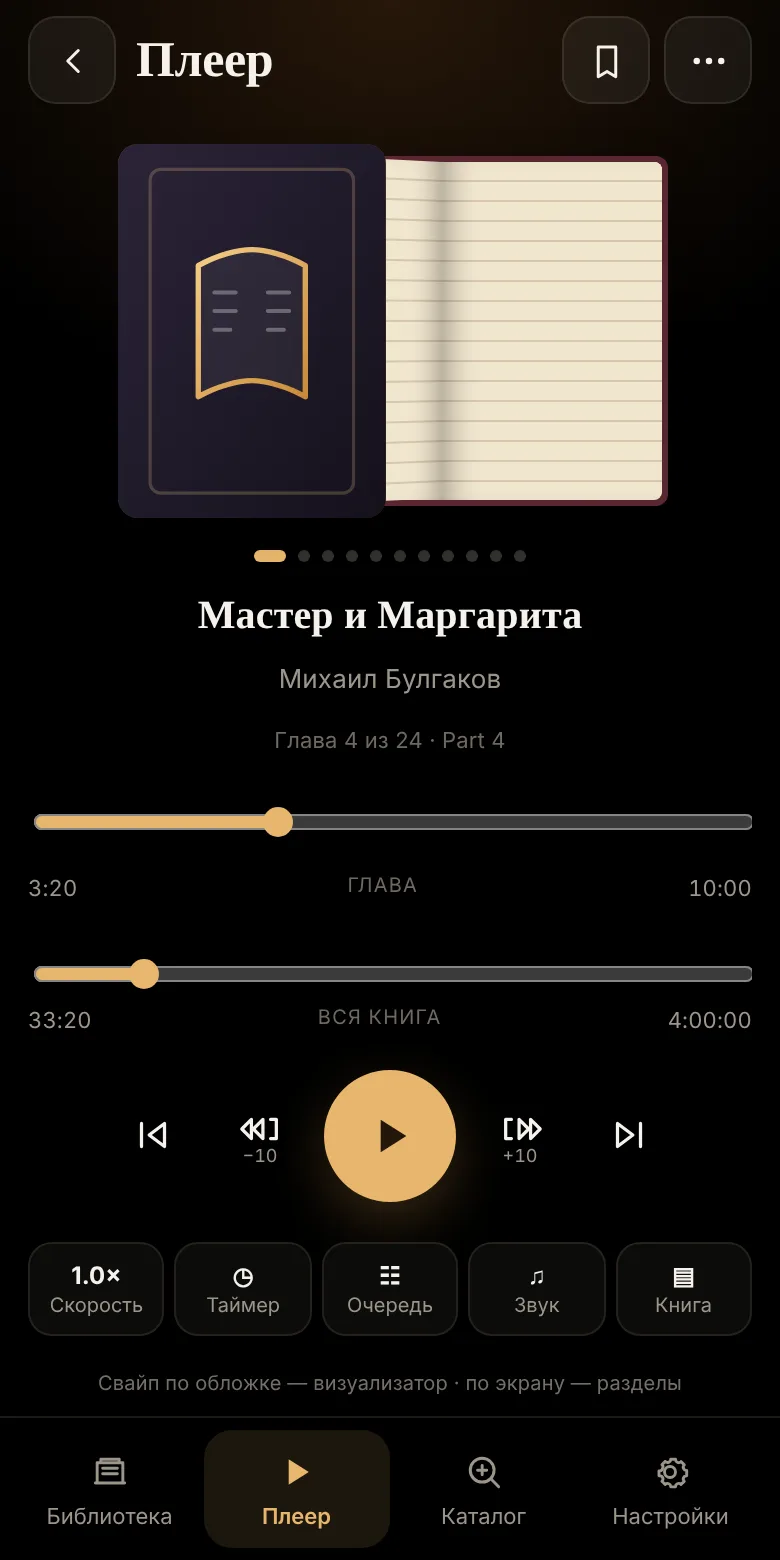
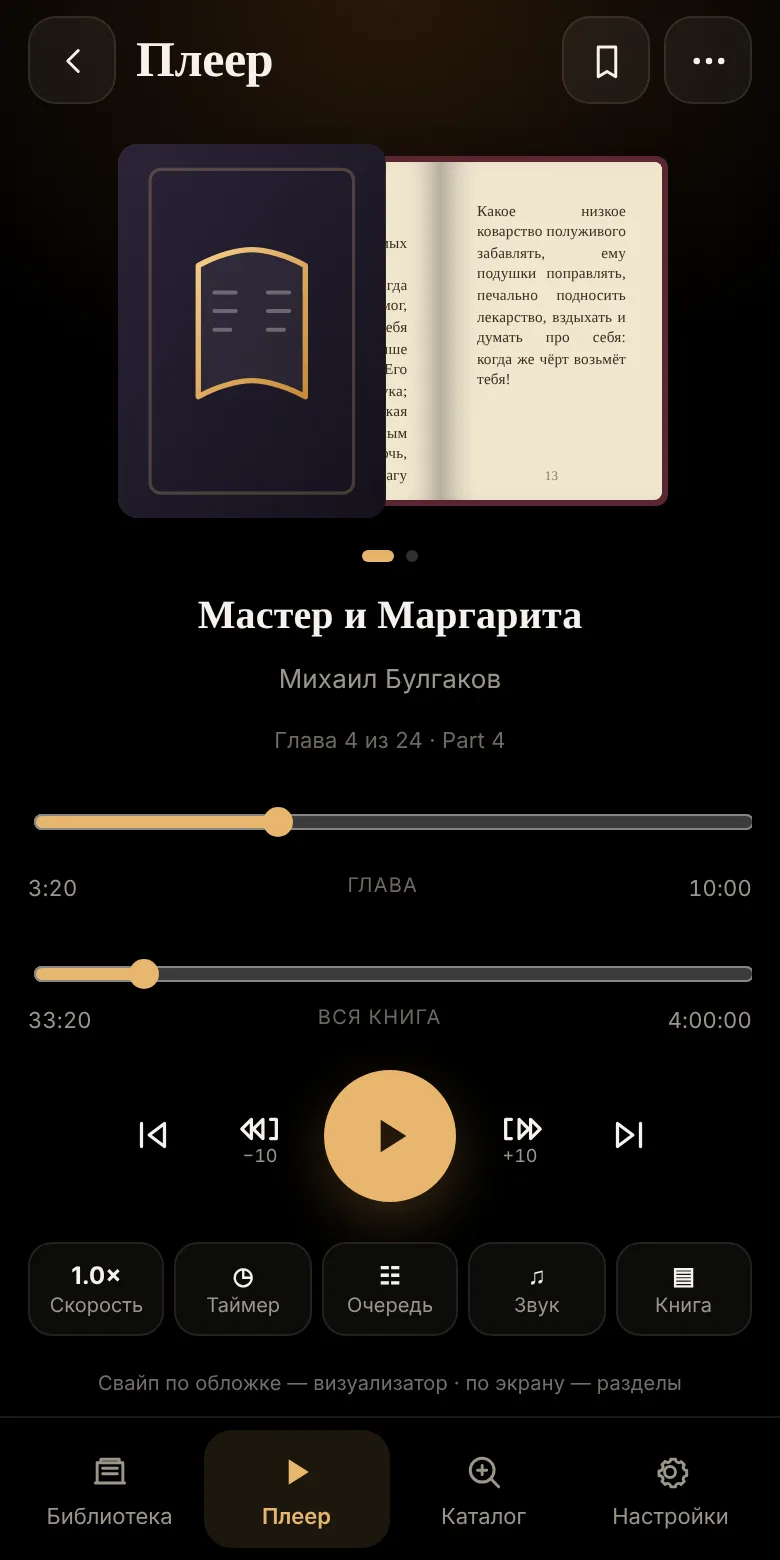
2.8.4

diff --git a/www/css/player.css b/www/css/player.css
@@ -224,6 +224,8 @@
 /* Dots under the cover / on the visual: where you are in the picture loop (cover, visual 1, 2, 3) */
 .pic-dots { display: flex; justify-content: center; gap: 6px; min-height: 6px; margin: -2px 0 6px; }
 .pic-dots i { width: 6px; height: 6px; border-radius: 50%; background: var(--muted-soft); opacity: .45; transition: width .18s, opacity .18s, background .18s; }
+.pic-num { font: 600 12px/1 inherit; color: var(--muted); margin-left: 4px; align-self: center; letter-spacing: .04em; }
+.pic-dots-viz .pic-num { color: #fff; opacity: .85; }
 .pic-dots i.on { width: 16px; border-radius: 4px; background: var(--gold2); opacity: 1; }
 .pic-dots-viz { position: absolute; left: 0; right: 0; bottom: calc(14px + env(safe-area-inset-bottom)); margin: 0; z-index: 2; pointer-events: none; }
 .pic-dots-viz i { background: #fff; }
@@ -308,13 +310,17 @@
 /* a book: the cover stays on the left, an open book lies beside it and its leaves turn over, the same way the record sits beside an album */
 .player-cover.is-book { height: min(clamp(96px, 24vh, 210px), 48vw); height: min(clamp(96px, 24dvh, 210px), 48vw); aspect-ratio: 1.45; max-width: none; }
 .is-book .cover-frame { right: auto; width: 49.3%; border-radius: 10px; }
-.fx-book { position: absolute; right: 0; top: 5%; height: 90%; aspect-ratio: 1.3; z-index: 1; perspective: 900px; }
+.fx-book { position: absolute; right: 0; top: 5%; height: 90%; aspect-ratio: 1.3; z-index: 1; perspective: 900px; container-type: size; }
 .fx-book::before { content: ""; position: absolute; inset: -3px; border-radius: 6px; background: #5a2630; box-shadow: 0 6px 18px rgba(0,0,0,.45); }
-.fx-book .pg, .fx-book .lf { position: absolute; top: 0; width: 50%; height: 100%;
-  background: repeating-linear-gradient(180deg, transparent 0 9px, rgba(120,90,50,.22) 9px 10px), #f1e6cf; }
+.fx-book .pg, .fx-book .lf { position: absolute; top: 0; width: 50%; height: 100%; overflow: hidden; background: #f1e6cf; color: #3a2f20;
+  font: 3.5cqw/1.38 Georgia, "Times New Roman", serif; text-align: justify; hyphens: auto; padding: 9% 8% 12%; box-sizing: border-box; }
+.fx-book .pg p, .fx-book .lf p { margin: 0; }
+.fx-book h6 { margin: 0 0 6% ; font: italic 600 4.6cqw/1.1 Georgia, serif; text-align: center; letter-spacing: .02em; }
+.fx-book .pg-l p::first-letter { float: left; font: 700 11cqw/.85 Georgia, serif; padding: 1% 2% 0 0; color: #6a2a2a; }
+.fx-book .pg::after, .fx-book .lf::after { content: attr(data-n); position: absolute; left: 0; right: 0; bottom: 4%; text-align: center; font-size: 3cqw; opacity: .6; }
 .fx-book .pg-l { left: 0; border-radius: 4px 0 0 4px; box-shadow: inset -14px 0 14px -10px rgba(0,0,0,.35); }
 .fx-book .pg-r { right: 0; border-radius: 0 4px 4px 0; box-shadow: inset 14px 0 14px -10px rgba(0,0,0,.35); }
-.fx-book .lf { right: 0; border-radius: 0 4px 4px 0; transform-origin: 0 50%; box-shadow: inset 14px 0 14px -10px rgba(0,0,0,.3); animation: leaf-turn 9s ease-in-out infinite; animation-play-state: paused; }
+.fx-book .lf { right: 0; border-radius: 0 4px 4px 0; transform-origin: 0 50%; backface-visibility: hidden; box-shadow: inset 14px 0 14px -10px rgba(0,0,0,.3); animation: leaf-turn 9s ease-in-out infinite; animation-play-state: paused; }
 .is-book.playing .fx-book .lf { animation-play-state: running; }
 .fx-book .lf:nth-child(4) { animation-delay: -3s; }
 .fx-book .lf:nth-child(5) { animation-delay: -6s; }

diff --git a/www/js/player.js b/www/js/player.js
@@ -11,7 +11,7 @@ import { openBookMenu } from './library.js';
 import { closeVisualizer, syncPictureDots } from './visualizer.js';
 import { hydrateBookMeta } from './meta.js';
 import { bindNativeEvents, stopNativePlayer } from './native-bridge.js';
-import { t } from './i18n.js';
+import { t, getLang } from './i18n.js';
 
 let progressSaveTimer = null;
 let lastSavedSecond = -1;
@@ -42,6 +42,13 @@ function syncPlaying(){
   return state.playing;
 }
 
+/** Page text of the little open book: the start of a public-domain novel in the language of the app */
+function bookText(){
+  return getLang() === 'en'
+    ? ['Chapter I', 'It is a truth universally acknowledged, that a single man in possession of a good fortune, must be in want of a wife. However little known the feelings or views of such a man may be on his first entering a neighbourhood, this truth is so well fixed in the minds of the surrounding families.', 'That he is considered the rightful property of some one or other of their daughters. “My dear Mr. Bennet,” said his lady to him one day, “have you heard that Netherfield Park is let at last?” Mr. Bennet replied that he had not.']
+    : ['Глава I', 'Мой дядя самых честных правил, когда не в шутку занемог, он уважать себя заставил и лучше выдумать не мог. Его пример другим наука; но, боже мой, какая скука с больным сидеть и день и ночь, не отходя ни шагу прочь!', 'Какое низкое коварство полуживого забавлять, ему подушки поправлять, печально подносить лекарство, вздыхать и думать про себя: когда же чёрт возьмёт тебя!'];
+}
+
 /** Animated layer behind the cover: an album gets a record with a tonearm, a book gets an open book beside it whose leaves turn over */
 function coverFx(b){
   if(isMusic(b)){
@@ -49,7 +56,9 @@ function coverFx(b){
       '<svg class="fx-arm" viewBox="0 0 140 100" aria-hidden="true"><g class="arm">' +
       '<circle cx="128" cy="10" r="6.5" class="arm-base"/><path d="M128 10 L108 24" class="arm-bar"/><rect x="102" y="21" width="9" height="5.5" rx="1.5" transform="rotate(35 106 24)" class="arm-head"/></g></svg>';
   }
-  return '<div class="fx-book" aria-hidden="true"><i class="pg pg-l"></i><i class="pg pg-r"></i><i class="lf"></i><i class="lf"></i><i class="lf"></i></div>';
+  const [ch, p1, p2] = bookText();
+  return `<div class="fx-book" aria-hidden="true"><div class="pg pg-l" data-n="12"><h6>${ch}</h6><p>${p1}</p></div><div class="pg pg-r" data-n="13"><p>${p2}</p></div>` +
+    `<div class="lf" data-n="13"><p>${p2}</p></div><div class="lf" data-n="13"><p>${p2}</p></div><div class="lf" data-n="13"><p>${p2}</p></div></div>`;
 }
 
 /** Seek within whole book (seconds from the very start of the book) */

diff --git a/www/js/visualizer.js b/www/js/visualizer.js
@@ -44,12 +44,10 @@ function setVisual(v){
 
 /** The little dots (one per picture) on the cover and on the visual: where you are in the loop */
 export function syncPictureDots(){
+  // two stops: the cover (with its animation beside it) and the visualizers; the counter says which of the ten is on
   const pos = picturePosition();
   document.querySelectorAll('.pic-dots').forEach(host => {
-    if(!host.children.length){
-      host.innerHTML = Array.from({length: VISUALS.length + 1}, () => '<i></i>').join('');
-    }
-    Array.from(host.children).forEach((d, i) => d.classList.toggle('on', i === pos));
+    host.innerHTML = `<i class="${pos === 0 ? 'on' : ''}"></i><i class="${pos > 0 ? 'on' : ''}"></i>${pos > 0 ? `<b class="pic-num">${pos}/${VISUALS.length}</b>` : ''}`;
   });
 }
 

diff --git a/README.md b/README.md
@@ -71,7 +71,7 @@
 
 ## Каталог, онлайн и скачанные книги (2.8.0, правки 2.8.1)
 
-2.8.1: поиск по-русски идёт по коду языка архива (`language:rus`, у LibriVox коды ISO 639-2); меню книги «Удалить…» предлагает «Убрать из библиотеки» и «Удалить с диска» (`ShelfFiles.deleteFile`, для скачанных книг `dropEmptyDir` убирает и пустую папку); у обложки книги рядом лежит раскрытая книга, листы переворачиваются (`.fx-book`). Каталог теперь с тремя источниками на archive.org (`SOURCES` в `catalog.js`): «Книги LibriVox», «Другие книги» (`audio_bookspoetry` без LibriVox) и «Музыка» (`netlabels`); вне LibriVox показываются только записи с открытой лицензией (public domain, CC0, CC BY, CC BY-SA, без NC и ND), проверка есть и в запросе, и в `loadItem`. Музыка попадает в библиотеку как альбом. Вкладки библиотеки: Все / Книги / Музыка / Онлайн; скачанные книги лежат в «Книги» или «Музыка» и помечены значком (`.dl-badge`), онлайн-записи только во «Все» и «Онлайн». 2.8.2: десять новых визуализаторов вместо трёх старых; режим библиотеки «Полка» (книги корешками на досках), кнопка ⋯ и долгое нажатие на книге открывают меню (удалить, скачать, источник); в каталоге добавлены украинские и сербские книги (коды `ukr`, `srp/hrv/bos`).
+2.8.1: поиск по-русски идёт по коду языка архива (`language:rus`, у LibriVox коды ISO 639-2); меню книги «Удалить…» предлагает «Убрать из библиотеки» и «Удалить с диска» (`ShelfFiles.deleteFile`, для скачанных книг `dropEmptyDir` убирает и пустую папку); у обложки книги рядом лежит раскрытая книга, листы переворачиваются (`.fx-book`). Каталог теперь с тремя источниками на archive.org (`SOURCES` в `catalog.js`): «Книги LibriVox», «Другие книги» (`audio_bookspoetry` без LibriVox) и «Музыка» (`netlabels`); вне LibriVox показываются только записи с открытой лицензией (public domain, CC0, CC BY, CC BY-SA, без NC и ND), проверка есть и в запросе, и в `loadItem`. Музыка попадает в библиотеку как альбом. Вкладки библиотеки: Все / Книги / Музыка / Онлайн; скачанные книги лежат в «Книги» или «Музыка» и помечены значком (`.dl-badge`), онлайн-записи только во «Все» и «Онлайн». 2.8.2: десять новых визуализаторов вместо трёх старых; режим библиотеки «Полка» (книги корешками на досках), кнопка ⋯ и долгое нажатие на книге открывают меню (удалить, скачать, источник); в каталоге добавлены украинские и сербские книги (коды `ukr`, `srp/hrv/bos`). 2.8.4: у обложки книги рядом лежит раскрытая книга с текстом (буквица, номера страниц, листы переворачиваются), счётчик «обложка / визуализатор 3/10» вместо одиннадцати точек.
 
 - **Каталог** (вместо «Для вас», которого больше нет): поиск по названию/автору, фильтр языка (русские / английские / все). Источник — Internet Archive, коллекция `librivoxaudio` (записи добровольцев LibriVox, общественное достояние). Файлы: один комплект MP3 (64 kbps, иначе 128 kbps / VBR), по порядку.
 - **Слушать онлайн** — бесплатно: книга попадает в библиотеку (вкладка «Онлайн») как обычная, с позицией и закладками; файлы — https-ссылки, Media3 играет их потоком; выравнивание громкости такие файлы не измеряет.

diff --git a/store/RELEASE_CHECKLIST.md b/store/RELEASE_CHECKLIST.md
@@ -10,7 +10,7 @@
 4. Опубликуйте политику конфиденциальности (`store/PRIVACY_POLICY.md`) по ссылке: GitHub Pages, Gist или свой сайт. Подставьте дату и e-mail.
 
 ## 1. Перед каждым релизом
-1. Поднимите `version` в `package.json` (например, `2.8.3`). Из неё берутся `versionName` и `versionCode` (2.8.3 → 20803), код всегда должен расти.
+1. Поднимите `version` в `package.json` (например, `2.8.4`). Из неё берутся `versionName` и `versionCode` (2.8.4 → 20804), код всегда должен расти.
 2. Проверки: `cd tests && npm ci && npm run lint && npm test`, затем `cd ../android && ./gradlew testDebugUnitTest`.
 3. Ручная проверка на **реальном телефоне** (минимум Android 15 или 16, лучше ещё один старый), список ниже.
 
@@ -25,7 +25,7 @@ cd android
 Файл: `android/app/build/outputs/bundle/release/app-release.aab`.
 
 **Через GitHub Actions** (`release.yml`): добавьте секреты репозитория
-`ANDROID_KEYSTORE_BASE64`, `ANDROID_KEYSTORE_PASSWORD`, `ANDROID_KEY_ALIAS`, `ANDROID_KEY_PASSWORD`, затем отправьте тег `v2.8.3` или запустите вручную. Base64 из PowerShell:
+`ANDROID_KEYSTORE_BASE64`, `ANDROID_KEYSTORE_PASSWORD`, `ANDROID_KEY_ALIAS`, `ANDROID_KEY_PASSWORD`, затем отправьте тег `v2.8.4` или запустите вручную. Base64 из PowerShell:
 ```
 [Convert]::ToBase64String([IO.File]::ReadAllBytes("upload.jks")) | Set-Clipboard
 ```
